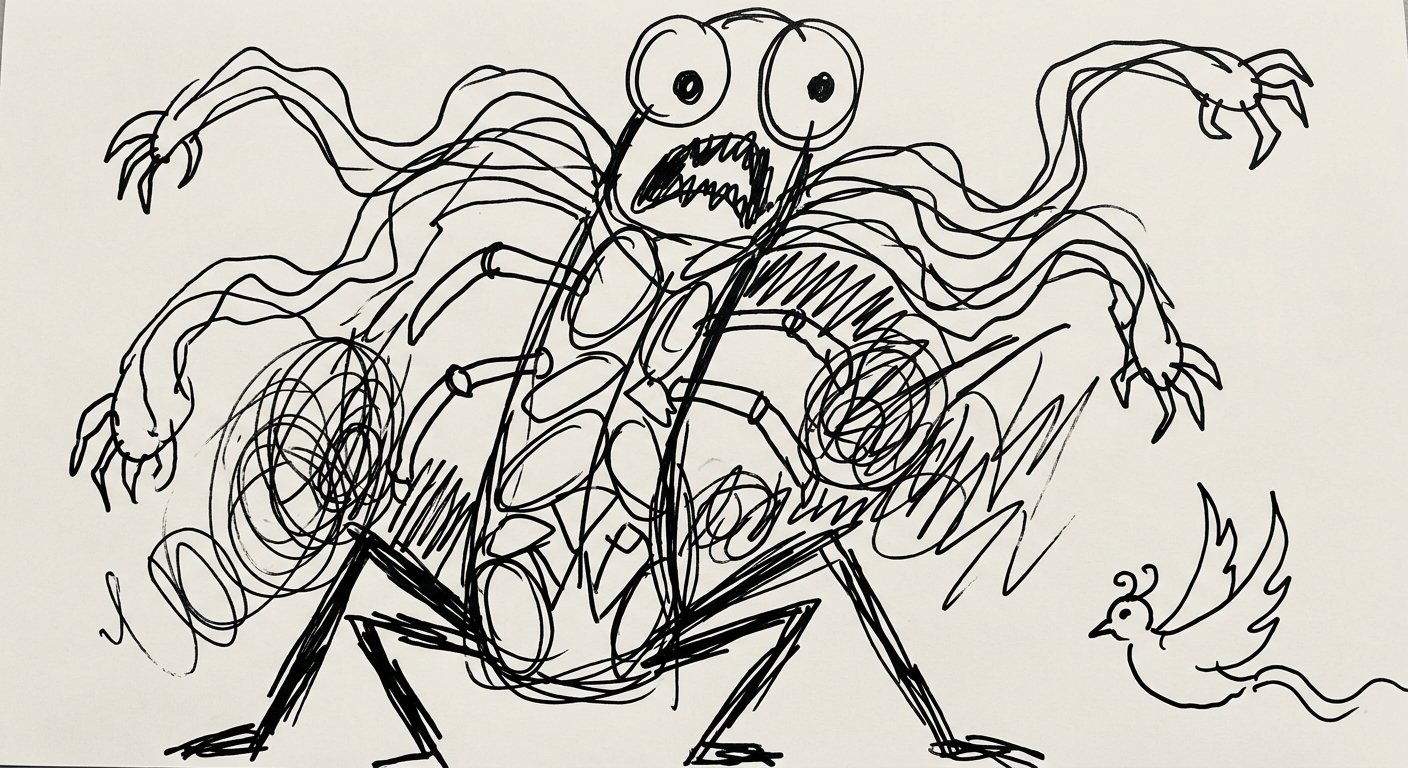
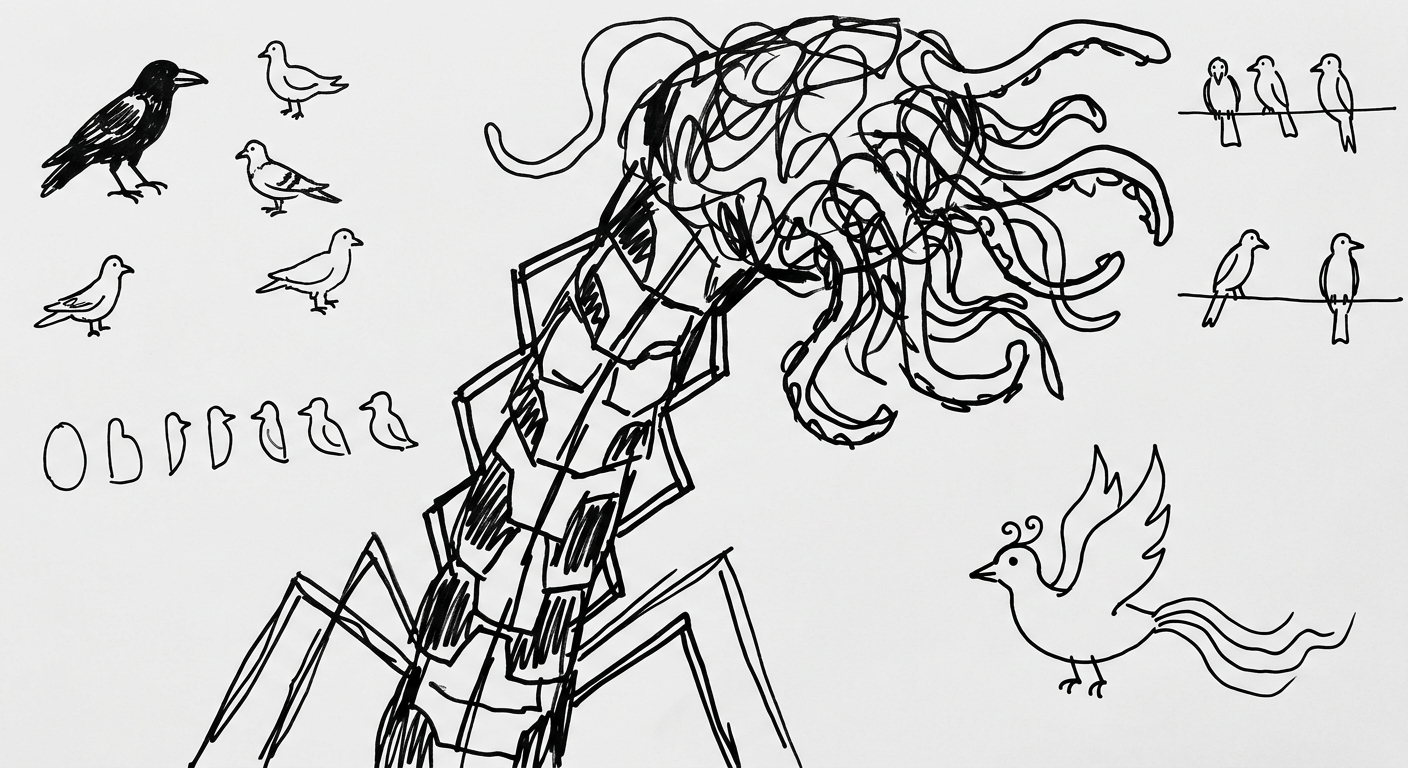
finished 3 days

diff --git a/src/www/notebook/60/005.md b/src/www/notebook/60/005.md
@@ -41,8 +41,8 @@ imagePrompt: |
   No text anywhere in the picture: no words, no letters, no sound effects, no labels, no title, no signature.
 ---
 
-How does this creature make you feel?
+Fucking creepy ass faces everywhere. I feel like I'm being watched all the time. So fucking thankful this one couldn't move far. I felt like I'd run forever before I turned back to find nothing following me. 
 
-What did you wake up feeling?
+I didn't wait up panting. I almost felt serene after the long run in my dream. Still tired as fuck though. I need coffee.
 
-What were you doing in the dream?
+You think I'd be used to the creepy shit in my dreams... Still creepy even after all these years.

diff --git a/src/www/notebook/10/014.md b/src/www/notebook/10/014.md
@@ -42,4 +42,8 @@ imagePrompt: |
   No text anywhere in the picture: no words, no letters, no sound effects, no labels, no title, no signature.
 ---
 
-I hate tentacles.
+I hate tentacles. There is nothing worse than flailing tentacles.
+
+I tripped over jar of marbles sitting in the middle of road. Dumb dream. But it fell over and scattered. The creature stopped to count them.  So weird.
+
+I'm glad I'm not obsessed with counting. Could you imagine?
